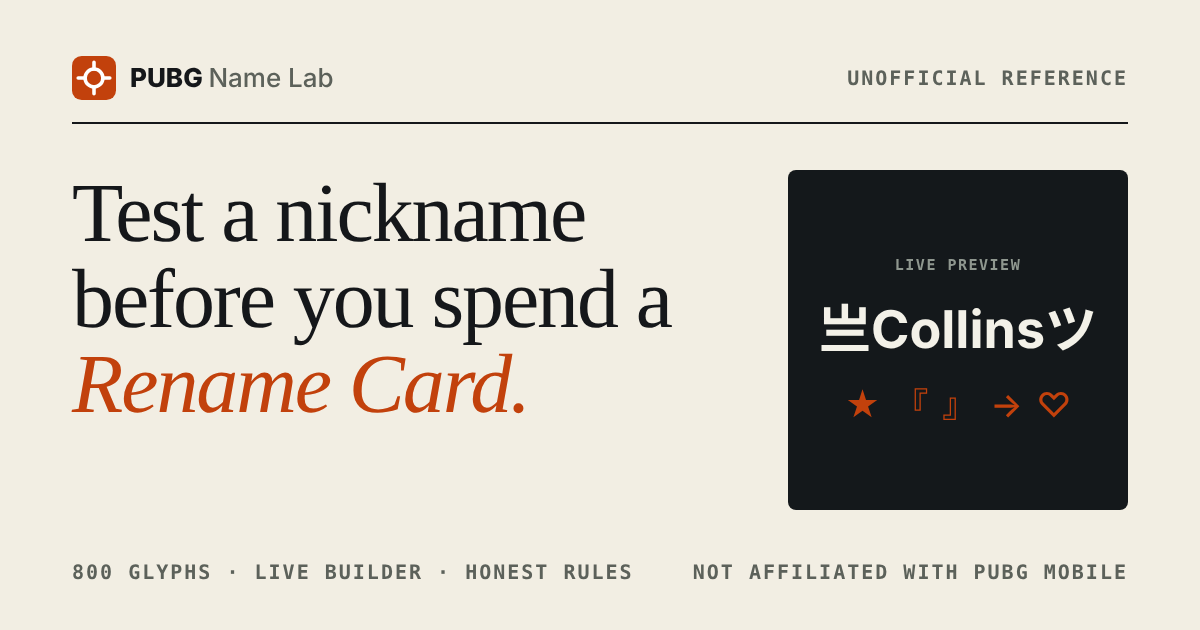
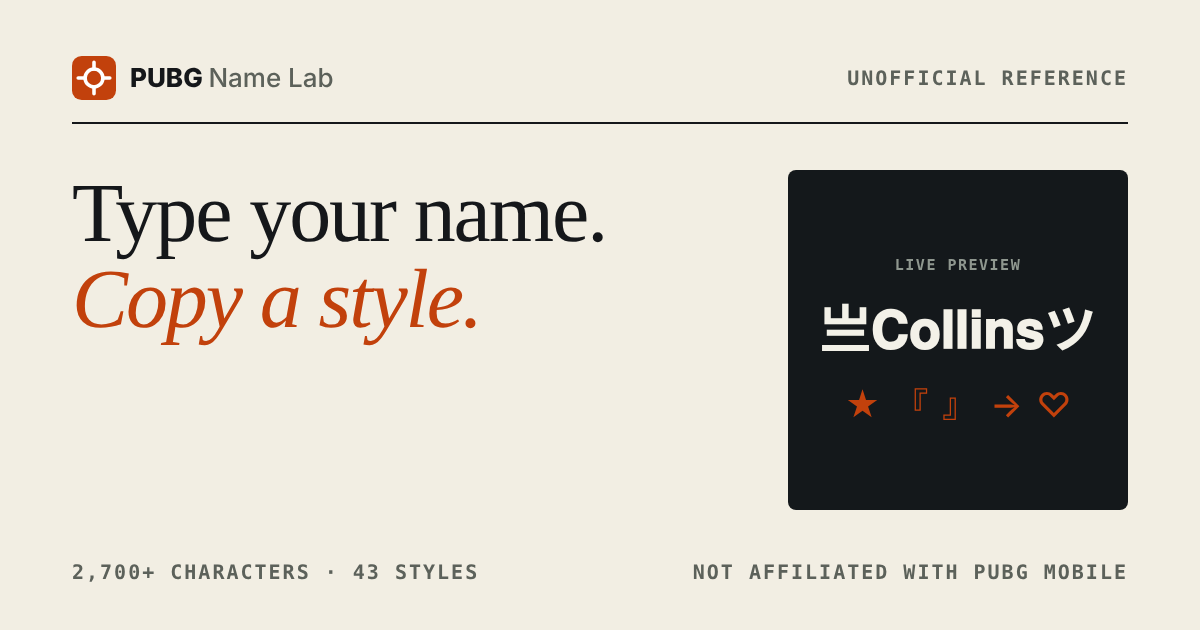
Expand character library to 2,700+ characters
- Add combining marks and ready-made combos like ×͜×
- Add 13 fancy-letter styles, symbols, shapes and more alphabets
- Add 15 new styles to the name generator

diff --git a/index.html b/index.html
@@ -6,7 +6,7 @@
 <meta name="color-scheme" content="light dark">
 <meta name="theme-color" content="#f2eee3">
 <title>PUBG Name Lab — Stylish Name Generator & Character Library</title>
-<meta name="description" content="Type your name and copy stylish PUBG Mobile nickname variants. Browse 800 Unicode characters, build a name by hand, and see what is officially documented about nickname rules.">
+<meta name="description" content="Type your name and copy stylish PUBG Mobile nickname variants. Browse 2,700+ Unicode characters, including combining marks and combos like ×͜×, build a name by hand, and see what is officially documented about nickname rules.">
 <meta name="application-name" content="PUBG Name Lab">
 <meta name="apple-mobile-web-app-title" content="Name Lab">
 <link rel="icon" href="/favicon.svg" type="image/svg+xml">
@@ -190,12 +190,14 @@ h3{font:600 17px/1.3 var(--sans);margin:0 0 6px}
 .group-head .count{font:500 12px/1 var(--mono);color:var(--muted);margin-left:8px;vertical-align:middle}
 .glyphs{display:flex;flex-wrap:wrap;padding:0 1px 1px 0}
 .glyph{font:400 22px/1 var(--glyph);width:48px;height:48px;margin:0 -1px -1px 0;display:grid;place-items:center;background:var(--panel);color:var(--ink);border:1px solid var(--rule);border-radius:0;cursor:pointer;padding:0;position:relative;transition:background .1s}
+.glyph.wide{width:auto;min-width:48px;padding:0 12px;font-size:20px;white-space:nowrap}
 .glyph:hover{background:var(--ink);color:var(--bg);border-color:var(--ink);z-index:1}
 .glyph:focus-visible{outline:2px solid var(--accent);outline-offset:-2px;z-index:2;border-radius:0}
 .glyph:active{background:var(--accent);color:var(--on-accent)}
 .glyphs .glyph:first-child{border-top-left-radius:var(--r)}
 .inspector{position:sticky;top:150px;border:1px solid var(--ink);background:var(--panel);border-radius:var(--r);padding:20px}
 .insp-glyph{font:400 88px/1 var(--glyph);height:130px;display:grid;place-items:center;background:var(--bg);border:1px solid var(--rule);border-radius:var(--r);overflow:hidden}
+.insp-glyph.long{font-size:44px;padding:0 8px;white-space:nowrap}
 .insp-glyph.ph{font-size:15px;color:var(--muted);padding:0 20px;text-align:center;font-family:var(--sans)}
 .insp-list{margin:16px 0 0;font-size:13.5px}
 .insp-list div{display:flex;justify-content:space-between;gap:12px;padding:7px 0;border-bottom:1px solid var(--rule)}
@@ -538,7 +540,7 @@ const graphemes=s=>seg?[...seg.segment(s)].map(x=>x.segment):[...s];
 const hx=n=>n.toString(16).toUpperCase().padStart(4,'0');
 const cpOf=ch=>[...ch].map(c=>'U+'+hx(c.codePointAt(0))).join(' ');
 const utf8=s=>new TextEncoder().encode(s).length;
-const BLOCKS=[[0x0,0x7F,'Basic Latin'],[0x370,0x3FF,'Greek and Coptic'],[0x400,0x4FF,'Cyrillic'],[0x590,0x5FF,'Hebrew'],[0x600,0x6FF,'Arabic'],[0xE00,0xE7F,'Thai'],[0xF00,0xFFF,'Tibetan'],[0x10A0,0x10FF,'Georgian'],[0x2000,0x206F,'General Punctuation'],[0x2100,0x214F,'Letterlike Symbols'],[0x2190,0x21FF,'Arrows'],[0x2200,0x22FF,'Mathematical Operators'],[0x2300,0x23FF,'Miscellaneous Technical'],[0x2600,0x26FF,'Miscellaneous Symbols'],[0x2700,0x27BF,'Dingbats'],[0x27C0,0x27EF,'Misc. Mathematical Symbols-A'],[0x2900,0x297F,'Supplemental Arrows-B'],[0x2B00,0x2BFF,'Misc. Symbols and Arrows'],[0x3000,0x303F,'CJK Symbols and Punctuation'],[0x3040,0x309F,'Hiragana'],[0x30A0,0x30FF,'Katakana'],[0x3400,0x4DBF,'CJK Ext. A'],[0x4E00,0x9FFF,'CJK Unified Ideographs'],[0xA9C0,0xA9DF,'Javanese'],[0xAC00,0xD7AF,'Hangul Syllables'],[0x1D400,0x1D7FF,'Math Alphanumeric Symbols']];
+const BLOCKS=[[0x80,0xFF,'Latin-1 Supplement'],[0x100,0x17F,'Latin Extended-A'],[0x180,0x24F,'Latin Extended-B'],[0x250,0x2AF,'IPA Extensions'],[0x2B0,0x2FF,'Spacing Modifier Letters'],[0x300,0x36F,'Combining Diacritical Marks'],[0x480,0x489,'Cyrillic (historic)'],[0x530,0x58F,'Armenian'],[0x900,0x97F,'Devanagari'],[0x13A0,0x13FF,'Cherokee'],[0x1400,0x167F,'Canadian Aboriginal Syllabics'],[0x16A0,0x16FF,'Runic'],[0x1D00,0x1D7F,'Phonetic Extensions'],[0x2070,0x209F,'Superscripts and Subscripts'],[0x20A0,0x20CF,'Currency Symbols'],[0x2150,0x218F,'Number Forms'],[0x2460,0x24FF,'Enclosed Alphanumerics'],[0x2500,0x257F,'Box Drawing'],[0x2580,0x259F,'Block Elements'],[0x25A0,0x25FF,'Geometric Shapes'],[0x2800,0x28FF,'Braille Patterns'],[0x2E80,0x2FDF,'CJK Radicals'],[0xA720,0xA7FF,'Latin Extended-D'],[0xFF00,0xFFEF,'Halfwidth and Fullwidth Forms'],[0x1F100,0x1F1FF,'Enclosed Alphanumeric Supplement'],[0x0,0x7F,'Basic Latin'],[0x370,0x3FF,'Greek and Coptic'],[0x400,0x4FF,'Cyrillic'],[0x590,0x5FF,'Hebrew'],[0x600,0x6FF,'Arabic'],[0xE00,0xE7F,'Thai'],[0xF00,0xFFF,'Tibetan'],[0x10A0,0x10FF,'Georgian'],[0x2000,0x206F,'General Punctuation'],[0x2100,0x214F,'Letterlike Symbols'],[0x2190,0x21FF,'Arrows'],[0x2200,0x22FF,'Mathematical Operators'],[0x2300,0x23FF,'Miscellaneous Technical'],[0x2600,0x26FF,'Miscellaneous Symbols'],[0x2700,0x27BF,'Dingbats'],[0x27C0,0x27EF,'Misc. Mathematical Symbols-A'],[0x2900,0x297F,'Supplemental Arrows-B'],[0x2B00,0x2BFF,'Misc. Symbols and Arrows'],[0x3000,0x303F,'CJK Symbols and Punctuation'],[0x3040,0x309F,'Hiragana'],[0x30A0,0x30FF,'Katakana'],[0x3400,0x4DBF,'CJK Ext. A'],[0x4E00,0x9FFF,'CJK Unified Ideographs'],[0xA9C0,0xA9DF,'Javanese'],[0xAC00,0xD7AF,'Hangul Syllables'],[0x1D400,0x1D7FF,'Math Alphanumeric Symbols']];
 const blockOf=cp=>{const b=BLOCKS.find(b=>cp>=b[0]&&cp<=b[1]);return b?b[2]:'Other'};
 
 /* ---------- Library data ---------- */
@@ -563,16 +565,61 @@ const groups=[
 {id:'flowers',title:'Flowers & ornaments',desc:'Floral and ornamental marks.',type:'decor',kw:'flower floral ornament',chars:'❀✿❁✾❋⚜⍟⟡'},
 {id:'tibetan',title:'Tibetan / Indic-style ornaments',desc:'Decorative Unicode marks; font and game acceptance vary.',type:'decor',kw:'tibetan ornament swirl',chars:'࿐༄༒࿇࿈'},
 {id:'cjkmarks',title:'CJK and Japanese-style marks',desc:'Popular decorative characters often seen in stylized player names.',type:'decor',kw:'stylized cjk japanese marks',chars:'亗彡〆ツシッ乙卄メノ愛'},
-{id:'brackets',title:'Brackets & frames',desc:'Decorative bracket pairs. Try both opening and closing characters.',type:'brackets',kw:'bracket frame corner wrap',chars:'『』「」【】〖〗꧁꧂༺༻〈〉《》〔〕〘〙'},
-{id:'arrows',title:'Arrows & pointers',desc:'Directional and decorative arrow symbols.',type:'arrows',kw:'arrow pointer direction',chars:'→←↑↓↗↘↙↖➜➤➳➵➸➺➻'},
-{id:'m-bold',title:'Mathematical bold',desc:MATH_NOTE,type:'math',kw:'bold styled fancy',chars:mathAlpha(0x1D400,0x1D41A)+mathDigits(0x1D7CE)},
-{id:'m-fraktur',title:'Mathematical fraktur',desc:MATH_NOTE+' A few letters live in the Letterlike Symbols block instead.',type:'math',kw:'fraktur gothic blackletter styled fancy',chars:mathAlpha(0x1D504,0x1D51E,{C:'\u212D',H:'\u210C',I:'\u2111',R:'\u211C',Z:'\u2128'})},
-{id:'m-double',title:'Mathematical double-struck',desc:MATH_NOTE+' A few letters live in the Letterlike Symbols block instead.',type:'math',kw:'double struck outline blackboard styled fancy',chars:mathAlpha(0x1D538,0x1D552,{C:'\u2102',H:'\u210D',N:'\u2115',P:'\u2119',Q:'\u211A',R:'\u211D',Z:'\u2124'})+mathDigits(0x1D7D8)},
-{id:'m-script',title:'Mathematical script',desc:MATH_NOTE+' A few letters live in the Letterlike Symbols block instead.',type:'math',kw:'script cursive calligraphy styled fancy',chars:mathAlpha(0x1D49C,0x1D4B6,{B:'\u212C',E:'\u2130',F:'\u2131',H:'\u210B',I:'\u2110',L:'\u2112',M:'\u2133',R:'\u211B',e:'\u212F',g:'\u210A',o:'\u2134'})},
-{id:'m-mono',title:'Mathematical monospace',desc:MATH_NOTE,type:'math',kw:'monospace typewriter styled fancy',chars:mathAlpha(0x1D670,0x1D68A)+mathDigits(0x1D7F6)}
+{id:'brackets',title:'Brackets & frames',desc:'Decorative bracket pairs. Try both opening and closing characters.',type:'brackets',kw:'bracket frame corner wrap',chars:'『』「」【】〖〗꧁꧂༺༻〈〉《》〔〕〘〙❨❩❪❫❬❭❮❯❰❱❲❳❴❵⟦⟧⟨⟩⟪⟫⦅⦆⦃⦄⌈⌉⌊⌋｢｣‹›«»❝❞〚〛'},
+{id:'arrows',title:'Arrows & pointers',desc:'Directional and decorative arrow symbols.',type:'arrows',kw:'arrow pointer direction',chars:'→←↑↓↔↕↗↘↙↖⇒⇐⇑⇓⇔⇄⇅↺↻➔➜➝➞➟➠➡➢➣➤➥➦➧➨➩➪➫➬➭➮➯➱➳➵➸➺➻⟵⟶⟷⇝⇜↝↜⇢⇠'},
+{id:'m-bold',title:'Mathematical bold',desc:MATH_NOTE,type:'styled',kw:'bold styled fancy',chars:mathAlpha(0x1D400,0x1D41A)+mathDigits(0x1D7CE)},
+{id:'m-fraktur',title:'Mathematical fraktur',desc:MATH_NOTE+' A few letters live in the Letterlike Symbols block instead.',type:'styled',kw:'fraktur gothic blackletter styled fancy',chars:mathAlpha(0x1D504,0x1D51E,{C:'\u212D',H:'\u210C',I:'\u2111',R:'\u211C',Z:'\u2128'})},
+{id:'m-double',title:'Mathematical double-struck',desc:MATH_NOTE+' A few letters live in the Letterlike Symbols block instead.',type:'styled',kw:'double struck outline blackboard styled fancy',chars:mathAlpha(0x1D538,0x1D552,{C:'\u2102',H:'\u210D',N:'\u2115',P:'\u2119',Q:'\u211A',R:'\u211D',Z:'\u2124'})+mathDigits(0x1D7D8)},
+{id:'m-script',title:'Mathematical script',desc:MATH_NOTE+' A few letters live in the Letterlike Symbols block instead.',type:'styled',kw:'script cursive calligraphy styled fancy',chars:mathAlpha(0x1D49C,0x1D4B6,{B:'\u212C',E:'\u2130',F:'\u2131',H:'\u210B',I:'\u2110',L:'\u2112',M:'\u2133',R:'\u211B',e:'\u212F',g:'\u210A',o:'\u2134'})},
+{id:'m-mono',title:'Mathematical monospace',desc:MATH_NOTE,type:'styled',kw:'monospace typewriter styled fancy',chars:mathAlpha(0x1D670,0x1D68A)+mathDigits(0x1D7F6)}
 ];
-groups.forEach(g=>{g.list=[...new Set([...g.chars])];g.text=(g.title+' '+g.desc+' '+(g.kw||'')).toLowerCase()});
-const CATS=[['all','All'],['latin','Latin & numbers'],['scripts','Other writing systems'],['decor','Decorative symbols'],['brackets','Brackets & frames'],['arrows','Arrows'],['math','Mathematical letters']];
+const R=(a,b)=>{let o='';for(let i=a;i<=b;i++)o+=String.fromCodePoint(i);return o};
+const EXTRA=[
+{id:'m-bolditalic',title:'Mathematical bold italic',desc:MATH_NOTE,type:'styled',kw:'bold italic slanted styled fancy',chars:mathAlpha(0x1D468,0x1D482)},
+{id:'m-italic',title:'Mathematical italic',desc:MATH_NOTE+' Lowercase h lives in Letterlike Symbols.',type:'styled',kw:'italic slanted styled fancy',chars:mathAlpha(0x1D434,0x1D44E,{h:'ℎ'})},
+{id:'m-boldscript',title:'Mathematical bold script',desc:MATH_NOTE,type:'styled',kw:'bold script cursive calligraphy styled fancy',chars:mathAlpha(0x1D4D0,0x1D4EA)},
+{id:'m-boldfraktur',title:'Mathematical bold fraktur',desc:MATH_NOTE,type:'styled',kw:'bold fraktur gothic blackletter styled fancy',chars:mathAlpha(0x1D56C,0x1D586)},
+{id:'m-sans',title:'Mathematical sans-serif',desc:MATH_NOTE,type:'styled',kw:'sans serif plain styled fancy',chars:mathAlpha(0x1D5A0,0x1D5BA)+mathDigits(0x1D7E2)},
+{id:'m-sansbold',title:'Mathematical sans-serif bold',desc:MATH_NOTE,type:'styled',kw:'sans serif bold styled fancy',chars:mathAlpha(0x1D5D4,0x1D5EE)+mathDigits(0x1D7EC)},
+{id:'m-sansitalic',title:'Mathematical sans-serif italic',desc:MATH_NOTE,type:'styled',kw:'sans serif italic slanted styled fancy',chars:mathAlpha(0x1D608,0x1D622)},
+{id:'m-sansbolditalic',title:'Mathematical sans-serif bold italic',desc:MATH_NOTE,type:'styled',kw:'sans serif bold italic slanted styled fancy',chars:mathAlpha(0x1D63C,0x1D656)},
+{id:'smallcaps',title:'Small capitals',desc:'Small capitals from IPA and Phonetic Extensions. There is no true small-capital q or x, so ǫ and x are the usual stand-ins.',type:'styled',kw:'small caps capitals phonetic ipa',chars:'ᴀʙᴄᴅᴇꜰɢʜɪᴊᴋʟᴍɴᴏᴘǫʀꜱᴛᴜᴠᴡxʏᴢ'},
+{id:'fullwidth',title:'Fullwidth letters & digits',desc:'Wide forms of Latin letters and digits from Halfwidth and Fullwidth Forms. NFKC folds them back to ordinary letters.',type:'styled',kw:'fullwidth wide vaporwave aesthetic',chars:R(0xFF21,0xFF3A)+R(0xFF41,0xFF5A)+R(0xFF10,0xFF19)},
+{id:'circled',title:'Circled letters & numbers',desc:'Enclosed Alphanumerics: circled capitals, lowercase and numbers.',type:'styled',kw:'circled bubble enclosed',chars:R(0x24B6,0x24E9)+'⓪'+R(0x2460,0x2473)},
+{id:'negcircled',title:'Negative circled',desc:'Filled circle capitals and digits. Some devices may draw these as colour emoji; emoji are not recommended.',type:'styled',kw:'negative circled filled black bubble',chars:R(0x1F150,0x1F169)+R(0x2776,0x277F)},
+{id:'squared',title:'Squared letters',desc:'Squared and negative squared capitals. Some devices may draw these as colour emoji; emoji are not recommended.',type:'styled',kw:'squared boxed negative square',chars:R(0x1F130,0x1F149)+R(0x1F170,0x1F189)},
+{id:'superscript',title:'Superscript',desc:'Raised letters and digits from Phonetic Extensions and Superscripts. There is no standard superscript q.',type:'styled',kw:'superscript raised tiny small',chars:'ᵃᵇᶜᵈᵉᶠᵍʰⁱʲᵏˡᵐⁿᵒᵖʳˢᵗᵘᵛʷˣʸᶻ⁰¹²³⁴⁵⁶⁷⁸⁹ᴬᴮᴰᴱᴳᴴᴵᴶᴷᴸᴹᴺᴼᴾᴿᵀᵁⱽᵂ'},
+{id:'subscript',title:'Subscript',desc:'Lowered letters and digits. Only some letters have a subscript form.',type:'styled',kw:'subscript lowered tiny small',chars:'ₐₑₕᵢⱼₖₗₘₙₒₚᵣₛₜᵤᵥₓ₀₁₂₃₄₅₆₇₈₉'},
+{id:'cjk-letters',title:'CJK lookalike letters (A–Z)',desc:'Han and kana characters that resemble Latin capitals, in alphabetical order. Popular in stylised names; they are not the letters they look like.',type:'styled',lang:'ja',kw:'cjk lookalike letters alphabet kanji stylized',chars:'卂乃匚刀乇下厶卄工丁长乚从ん口尸㔿尺丂丅凵リ山乂丫乙'},
+{id:'canadian-letters',title:'Lookalike letters (Canadian syllabics & friends)',desc:'Syllabics, runic and Latin Extended characters that resemble capitals A–Z in order. Different characters from the letters they imitate.',type:'styled',kw:'lookalike canadian syllabics alphabet stylized aesthetic',chars:'ᗩᗷᑕᗪᗴᖴᘜᕼᓰᒍᛕᒪᗰᑎᗝᑭᑫᖇᔕ丅ᑌᐯᗯ᙭Ƴ乙'},
+{id:'latin1',title:'Accented Latin (Latin-1)',desc:'Accented letters from Western European languages, plus × and ÷.',type:'latin',kw:'accent accented diacritic latin1 european umlaut',chars:R(0xC0,0xFF)},
+{id:'latin-a',title:'Latin Extended-A',desc:'Letters used in Central and Eastern European languages, Turkish and more.',type:'latin',kw:'latin extended accent european polish czech turkish',chars:R(0x100,0x17F)},
+{id:'latin-look',title:'Latin lookalikes',desc:'Hooked, barred and crossed capitals from Latin Extended-B and neighbours.',type:'latin',kw:'latin lookalike hook bar stroke extended',chars:'ƁƇƊƑƓƘƝƤƬƲƵǶɃȻɆɌɎĦŦ'},
+{id:'armenian',title:'Armenian',desc:'Armenian capitals and lowercase letters.',type:'scripts',lang:'hy',kw:'armenian',chars:R(0x531,0x556)+R(0x561,0x586)},
+{id:'georgian',title:'Georgian',desc:'Georgian Mkhedruli letters.',type:'scripts',lang:'ka',kw:'georgian mkhedruli',chars:R(0x10D0,0x10FA)},
+{id:'devanagari',title:'Devanagari consonants & vowels',desc:'Hindi and Sanskrit letters. Complex shaping may render differently in other fonts.',type:'scripts',lang:'hi',kw:'devanagari hindi sanskrit indic',chars:R(0x905,0x939)},
+{id:'cherokee',title:'Cherokee',desc:'Cherokee syllabary capitals. Several resemble Latin letters.',type:'scripts',lang:'chr',kw:'cherokee syllabary lookalike',chars:R(0x13A0,0x13F5)},
+{id:'runic',title:'Runic',desc:'Runic letters from the Runic block.',type:'scripts',kw:'rune runic viking norse futhark',chars:R(0x16A0,0x16EA)},
+{id:'braille',title:'Braille patterns',desc:'A selection of Braille pattern characters, including a few dense blocks.',type:'scripts',kw:'braille dots pattern',chars:R(0x2801,0x283F)+'⣿⡇⢸⣀'},
+{id:'cjk-strokes',title:'CJK strokes & lookalikes',desc:'Simple CJK building blocks often used to stylise names.',type:'decor',lang:'ja',kw:'cjk strokes radical stylized lookalike kanji',chars:'丂乃乂乙工匚卂卜厶又口刀一丨丿丶尸山彡巳己ㄒㄩㄚ廾ㄥ'},
+{id:'dark',title:'Blades, bolts & dark symbols',desc:'Skull, blade and crest symbols. Some devices may draw these as colour emoji; emoji are not recommended.',type:'symbols',kw:'skull blade sword bolt lightning dark battle cross crest',chars:'☠☢☣☯☮☪✞✟✠☬⚔⚡☄⚰⚱✡☥☦'},
+{id:'cards-music',title:'Chess, cards & music',desc:'Chess pieces, card suits and musical notation.',type:'symbols',kw:'chess king queen card suit spade club diamond music note',chars:'♔♕♖♗♘♙♚♛♜♝♞♟♠♣♥♦♤♧♡♢♩♪♫♬♭♮♯'},
+{id:'misc',title:'Weather, tools & marks',desc:'Sun, moon, travel, checks and other common symbols.',type:'symbols',kw:'sun moon weather cloud snow plane scissors phone check cross smile male female',chars:'☀☁☂☃☼☽☾❄✈✂✆✉☎✓✔✗✘✖⌛⌚☺☻☹♀♂'},
+{id:'operators',title:'Math & operators',desc:'Operators and technical symbols, including the multiplication sign.',type:'symbols',kw:'math operator times multiply divide plus minus infinity sum root equals',chars:'×÷±∓∞≈≠≡≤≥≪≫√∑∏∆∇∂∫∈∉∩∪⊂⊃⊕⊗⊙⊘⊥∠∴∵∝⌘⌥✚✜✛✢✣✤✥'},
+{id:'shapes',title:'Geometric shapes',desc:'Triangles, circles, squares and diamonds.',type:'symbols',kw:'shape triangle circle square diamond geometric',chars:'▲△▼▽◀▶◁▷◆◇◈◉◊○●◎◍◐◑◒◓◔◕◖◗■□▢▣▤▥▦▧▨▩▪▫▬▭▮▯◢◣◤◥'},
+{id:'blocks',title:'Blocks & box drawing',desc:'Shading blocks and line-drawing characters.',type:'symbols',kw:'block shade box drawing line border frame',chars:'░▒▓█▀▄▌▐▁▂▃▅▆▇▏▎▍▋▊▉─│┌┐└┘├┤┬┴┼═║╔╗╚╝╠╣╦╩╬━┃┏┓┗┛'},
+{id:'currency',title:'Currency',desc:'Currency signs.',type:'symbols',kw:'currency money dollar euro pound yen bitcoin',chars:'$¢£¤¥€₩₹₽₿฿₺₦₱₫₪'},
+{id:'punct',title:'Punctuation & dividers',desc:'Bullets, dots, quotes, daggers and dividers.',type:'symbols',kw:'punctuation bullet dot dagger quote divider separator ellipsis',chars:'•·‣⁃‥…‹›«»¡¿‼⁇‡†§¶※‰′″‾⁂❝❞❛❜❮❯❰❱〃〝〞'},
+{id:'letterlike',title:'Letterlike & signs',desc:'Trademark-style signs, units and letter-shaped symbols.',type:'symbols',kw:'letterlike trademark copyright number sign ohm kelvin angstrom unit',chars:'℘℮№™℠℗®©℃℉℧℅℆ℓ℔ℯℊΩKÅ'},
+{id:'faceparts',title:'Face & eye parts',desc:'Characters often used to draw eyes, mouths and expressions.',type:'marks',kw:'face eye eyes mouth smile kaomoji emoticon',chars:'ʘಠ◕◔◉⊙⊗⊕◎Ꙩꙩωʖ‿︶°ᴗ‸'},
+{id:'combos',title:'Ready-made combos',desc:'Characters joined with combining marks, such as ×͜×. Combos are several code points, so they count as more than one character. Paste a combo into the search to find its parts.',type:'marks',kw:'combo combined kaomoji face eyes swoosh double breve tie joined x times lenny',items:['×͜×','×͡×','×͢×','♡͜♡','★͜★','•͜•','ღ͜ღ','ʘ͜ʘ','ಠ͜ಠ','⊙͜⊙','✿͜✿','ツ͜ツ','(ʘ‿ʘ)','(ಠ_ಠ)','(◕‿◕)','ʕ•ᴥ•ʔ','( ͡° ͜ʖ ͡°)','(づ｡◕‿‿◕｡)づ']},
+{id:'combining',title:'Combining marks',desc:'Combining Diacritical Marks, shown on a dotted circle. A mark attaches to the character before it, so add one after a letter. Heavy stacking may be stripped, rejected or render oddly.',type:'marks',marks:true,kw:'combining marks diacritics accent tie breve zalgo glitch overline strike underline',chars:R(0x300,0x36F)+'҉'}
+];
+groups.push(...EXTRA);
+const ORDER=['latin','styled','scripts','decor','symbols','brackets','arrows','marks'];
+groups.sort((a,b)=>ORDER.indexOf(a.type)-ORDER.indexOf(b.type));
+groups.forEach(g=>{g.list=g.items?g.items.slice():[...new Set([...g.chars])];g.text=(g.title+' '+g.desc+' '+(g.kw||'')).toLowerCase()});
+const CATS=[['all','All'],['latin','Latin & numbers'],['styled','Fancy letters'],['scripts','Other writing systems'],['decor','Decorative'],['symbols','Symbols & shapes'],['brackets','Brackets & frames'],['arrows','Arrows'],['marks','Combining & combos']];
 
 /* ---------- Feedback ---------- */
 const toastEl=$('#toast');let toastT;
@@ -684,12 +731,12 @@ function parseQuery(raw){
 function matchChars(g,p){
   if(!p.q)return g.list;
   if(p.single!==null&&!p.hasNonAscii&&/^[a-z0-9]$/.test(p.single))return g.list.filter(c=>c.toLowerCase()===p.single);
-  if(p.single!==null)return g.list.filter(c=>c===p.q);
+  if(p.single!==null)return g.list.filter(c=>[...c].includes(p.q));
   const groupHit=p.tokens.every(t=>g.text.includes(t));
   if(groupHit)return g.list;
   const pasted=p.hasNonAscii?new Set([...p.q]):null;
   return g.list.filter(c=>{
-    if(pasted&&pasted.has(c))return true;
+    if(pasted&&[...c].some(x=>pasted.has(x)))return true;
     if(p.hexes.length){const h=hx(c.codePointAt(0));return p.hexes.some(x=>h===x.padStart(4,'0')||h.startsWith(x))}
     return false;
   });
@@ -708,7 +755,7 @@ function render(){
     head.append(left,cp);
     const row=el('div','glyphs');row.setAttribute('role','group');row.setAttribute('aria-label',g.title+' characters');
     if(g.lang)row.lang=g.lang;
-    found.forEach((ch,i)=>{const b=el('button','glyph',ch);b.type='button';b.tabIndex=i?-1:0;b.dataset.ch=ch;b.title=ch+' · '+cpOf(ch);b.setAttribute('aria-label',ch+', '+cpOf(ch)+'. Add to nickname');row.append(b)});
+    found.forEach((ch,i)=>{const b=el('button','glyph'+([...ch].length>1?' wide':''),/^\p{M}$/u.test(ch)?'\u25CC'+ch:ch);b.type='button';b.tabIndex=i?-1:0;b.dataset.ch=ch;b.title=ch+' · '+cpOf(ch);b.setAttribute('aria-label',ch+', '+cpOf(ch)+'. Add to nickname');row.append(b)});
     sec.append(head,row);gridEl.append(sec);
   });
   if(!shownGroups){
@@ -725,9 +772,9 @@ $('#clearSearch').onclick=()=>{search.value='';render();search.focus()};
 const ip={g:$('#ipGlyph'),list:$('#ipList'),act:$('#ipActions')};
 function inspect(ch){
   if(!ch||ch===lastInspected)return;lastInspected=ch;
-  ip.g.className='insp-glyph';ip.g.textContent=ch;ip.list.hidden=false;ip.act.hidden=false;
+  ip.g.className='insp-glyph'+([...ch].length>2?' long':'');ip.g.textContent=/^\p{M}$/u.test(ch)?'\u25CC'+ch:ch;ip.list.hidden=false;ip.act.hidden=false;
   const c=ch.codePointAt(0),nf=ch.normalize('NFKC');
-  const rows=[['Code point',cpOf(ch)],['Block',blockOf(c)],['UTF-16 units',ch.length],['UTF-8 bytes',utf8(ch)],['HTML entity','&#x'+c.toString(16).toUpperCase()+';'],['JS escape',c>0xFFFF?'\\u{'+c.toString(16).toUpperCase()+'}':'\\u'+hx(c)],['NFKC',nf===ch?'unchanged':nf]];
+  const rows=[['Code point',cpOf(ch)],['Block',blockOf(c)],['UTF-16 units',ch.length],['UTF-8 bytes',utf8(ch)],['HTML entity',[...ch].map(x=>'&#x'+x.codePointAt(0).toString(16).toUpperCase()+';').join('')],['JS escape',[...ch].map(x=>{const k=x.codePointAt(0);return k>0xFFFF?'\\u{'+k.toString(16).toUpperCase()+'}':'\\u'+hx(k)}).join('')],['NFKC',nf===ch?'unchanged':nf]];
   ip.list.replaceChildren(...rows.map(([k,v])=>{const d=el('div');d.append(el('dt',null,k),el('dd',null,String(v)));return d}));
 }
 const unicodeLabel=ch=>ch+' · '+cpOf(ch);
@@ -773,16 +820,23 @@ boxes.forEach(b=>b.addEventListener('change',updateChecklist));
 /* ---------- Name generator ---------- */
 const gin=$('#genInput'),gout=$('#names'),gmore=$('#namesMore'),gclear=$('#genClear'),gstat=$('#genStatus');
 const MAPS={};
-['bold','fraktur','double','script','mono'].forEach(k=>{
+['bold','bolditalic','italic','fraktur','boldfraktur','double','script','boldscript','mono','sans','sansbold','sansitalic','sansbolditalic'].forEach(k=>{
   const str=[...groups.find(g=>g.id==='m-'+k).chars],m={};
   [...'ABCDEFGHIJKLMNOPQRSTUVWXYZabcdefghijklmnopqrstuvwxyz'].forEach((c,i)=>m[c]=str[i]);
   if(str.length>=62)[...'0123456789'].forEach((c,i)=>m[c]=str[52+i]);
   MAPS[k]=m;
 });
+(function(){
+  const sc=[...'ᴀʙᴄᴅᴇꜰɢʜɪᴊᴋʟᴍɴᴏᴘǫʀꜱᴛᴜᴠᴡxʏᴢ'],m1={},m2={},m3={};
+  [...'abcdefghijklmnopqrstuvwxyz'].forEach((c,i)=>{m1[c]=sc[i];m1[c.toUpperCase()]=sc[i];m3[c]=String.fromCodePoint(0x24D0+i);m3[c.toUpperCase()]=String.fromCodePoint(0x24B6+i)});
+  for(let c=0x21;c<=0x7E;c++)m2[String.fromCharCode(c)]=String.fromCodePoint(c+0xFEE0);
+  [...'123456789'].forEach((c,i)=>m3[c]=String.fromCodePoint(0x2460+i));m3['0']='\u24EA';
+  MAPS.smallcaps=m1;MAPS.fullwidth=m2;MAPS.circled=m3;
+})();
 const sty=(t,k)=>k?[...t].map(c=>MAPS[k][c]||c).join(''):t;
-const STYLES=[['bold','Bold'],['fraktur','Gothic'],['double','Outline'],['script','Script'],['mono','Monospace']];
+const STYLES=[['bold','Bold'],['bolditalic','Bold italic'],['italic','Italic'],['sans','Sans'],['sansbold','Sans bold'],['fraktur','Gothic'],['boldfraktur','Bold gothic'],['script','Script'],['boldscript','Bold script'],['double','Outline'],['mono','Monospace'],['smallcaps','Small caps'],['circled','Circled'],['fullwidth','Wide']];
 const DECOS=[['亗','ツ','Classic'],['『','』','Corner brackets'],['【','】','Lenticular'],['彡','彡','Swoosh'],['★','★','Stars'],['✦','✦','Sparkle'],['༺','༻','Ornate'],['꧁','꧂','Wings'],['','ツ','Tsu tag'],['','乙','Otsu tag'],['亗','','Kanji prefix'],['♡','♡','Hearts'],['❀','❀','Flowers'],['→','←','Arrows']];
-const COMBOS=[['bold',0],['bold',2],['bold',3],['fraktur',1],['fraktur',4],['script',5],['script',11],['double',0],['mono',3]];
+const COMBOS=[['bold',0],['bold',2],['bold',3],['fraktur',1],['fraktur',4],['script',5],['script',11],['double',0],['mono',3],['smallcaps',0],['smallcaps',1],['bolditalic',3],['sansbold',2],['boldscript',4],['circled',5]];
 const dec=(t,d)=>d[0]+t+d[1];
 function buildCards(name){
   const fancy=STYLES.map(([k,l])=>({cat:'fancy',label:l+' letters',text:sty(name,k)}));

diff --git a/README.md b/README.md
@@ -4,8 +4,8 @@ An independent, lightweight reference website for PUBG Mobile nickname character
 
 ## Features
 
-- **Name generator at the top of the page:** type a name and get 28 styled variants (fancy letters, frames, symbols, combinations) with one-tap copy, a "Tweak" button that opens any result in the builder, and the last name remembered in the browser
-- Searchable character library (800 glyphs in 24 groups): Latin letters, digits, selected writing systems, decorative symbols, brackets, arrows, and five Mathematical Alphanumeric styles
+- **Name generator at the top of the page:** type a name and get 43 styled variants (fancy letters, frames and combinations) (fancy letters, frames, symbols, combinations) with one-tap copy, a "Tweak" button that opens any result in the builder, and the last name remembered in the browser
+- Searchable character library (about 2,750 characters in 63 groups): Latin and accented letters, 13 fancy-letter styles (bold, script, gothic, small caps, circled, fullwidth and more), lookalike letters, a dozen writing systems, decorative symbols, shapes, brackets, arrows, 113 combining marks and ready-made combos such as ×͜×
 - Search by character, script name, keyword or Unicode code point (`U+2605`); category chips with live counts; "Copy set" for any group
 - Character inspector: code point, Unicode block, UTF-16 and UTF-8 size, HTML entity, JS escape and NFKC result
 - Nickname builder: inserts at the cursor, grapheme-aware delete, live preview, saved names (kept in this browser only)
